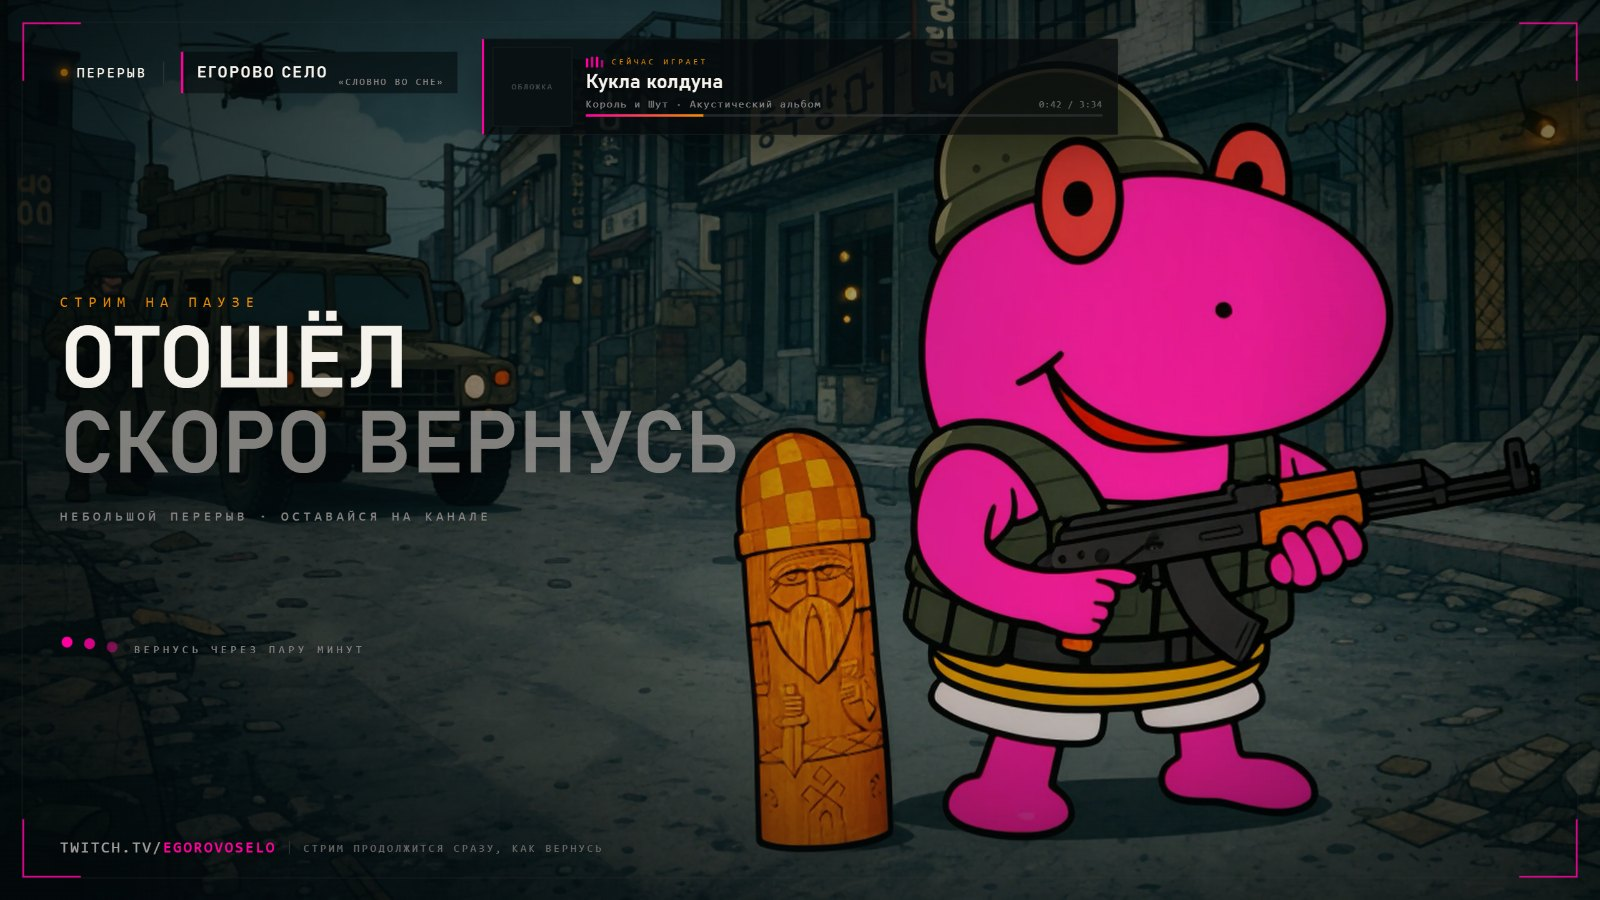
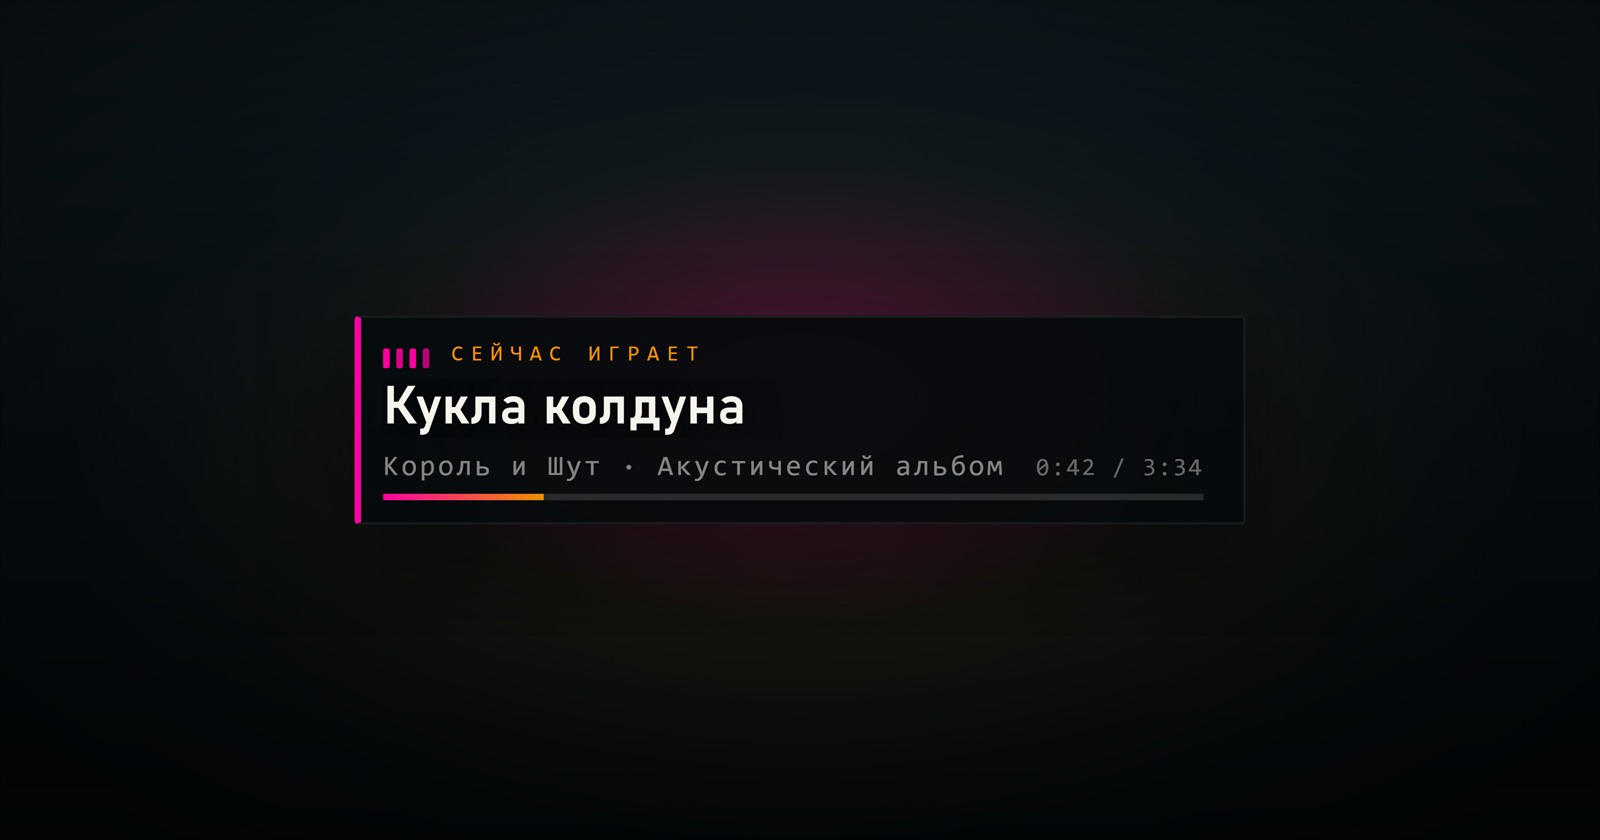
docs: hero image is the widget itself, not a stream screenshot

diff --git a/README.md b/README.md
@@ -4,7 +4,7 @@
 альбом, эквалайзер, прогресс и время. Ставится за две минуты, настраивается мышкой,
 работает локально (никакие данные никуда не отправляются).
 
-![Как это выглядит на стриме](docs/preview.jpg)
+![Виджет «Сейчас играет»](docs/preview.jpg)
 
 <p align="center">
   <a href="https://github.com/Blazeeers/obs-nowplaying/releases">Скачать</a> ·
